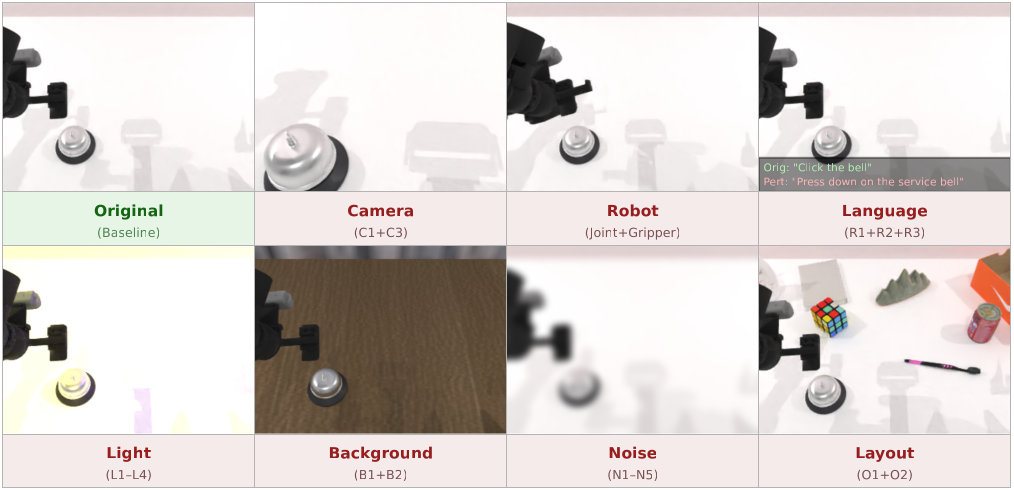
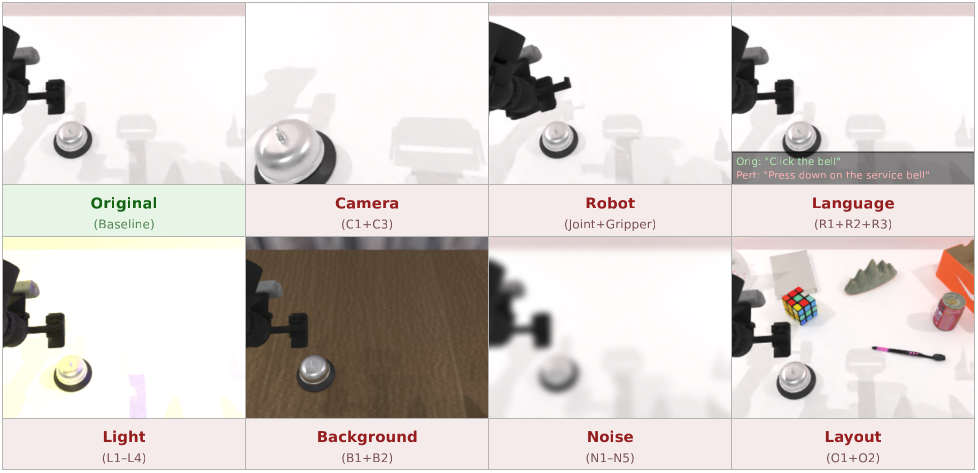
Expand project page: full figure set, real captions, results tables
Replace the single method/results images with the paper's own figure
sequence, each carrying its caption from the LaTeX source. Add an
Approach section and quantitative results tables transcribed from the
papers' result tables.

diff --git a/docs/index.html b/docs/index.html
@@ -48,6 +48,17 @@ h1{font-size:clamp(28px,4.4vw,42px);line-height:1.18;margin:0 0 10px;letter-spac
 .authors .me{font-weight:700}
 .affil{color:var(--muted);font-size:14.5px;margin:6px 0 0}
 .notes{color:var(--muted);font-size:13px;margin:8px 0 0}
+figure.fig{margin:0 0 34px}
+figure.fig:last-child{margin-bottom:0}
+.tbl-wrap{overflow-x:auto;margin:0 0 10px}
+table{border-collapse:collapse;width:100%;font-size:14.5px}
+th,td{padding:9px 14px;text-align:right;border-bottom:1px solid var(--rule);white-space:nowrap}
+th:first-child,td:first-child{text-align:left}
+thead th{font-weight:600;color:var(--muted);font-size:12.5px;letter-spacing:.05em;
+  text-transform:uppercase;border-bottom:1.5px solid var(--fg)}
+tbody tr:last-child td{border-bottom:1.5px solid var(--fg)}
+.tbl-title{font-weight:600;font-size:15px;margin:0 0 12px}
+.tbl-note{color:var(--muted);font-size:13.5px;margin:8px 0 30px}
 .tldr{background:var(--tldr);border-left:3px solid var(--accent);border-radius:0 8px 8px 0;
   padding:18px 22px;margin:0;font-size:17.5px;line-height:1.6}
 ul.pts{margin:0;padding-left:22px}
@@ -97,7 +108,8 @@ a{color:var(--accent)}
     <a class="btn" href="https://github.com/SajjadPSavoji/World-Action-Model-Robustness">Code</a>
     <a class="btn" href="#bibtex">BibTeX</a>
   </div>
-  <figure class="teaser"><img src="static/teaser.png" alt="WAM vs VLA teaser"></figure>
+  <figure class="teaser"><img src="static/teaser.png" alt="WAM vs VLA overview">
+    <figcaption>Examples of perturbations applied to RoboTwin 2.0-Plus tasks.</figcaption></figure>
 </div></header>
 <main class="wrap">
   <section>
@@ -113,19 +125,14 @@ a{color:var(--accent)}
     <ul class="pts"><li>A controlled robustness comparison of world action models (WAMs) against VLAs under systematic perturbations.</li><li>Evaluation across RoboTwin 2.0-Plus and LIBERO-Plus, covering perturbation types that isolate different generalization failures.</li><li>Analysis of the inference-cost gap that limits WAM deployment in real robotic systems.</li><li>Case studies contrasting IDM-based and joint-denoising WAM designs under limited training-data diversity.</li></ul>
   </section>
   <section>
-    <h2>Method</h2>
-    <figure>
-      <img src="static/method.png" alt="Method overview">
-      <figcaption>Overview of the proposed approach.</figcaption>
-    </figure>
+    <h2>Approach</h2>
+    <figure class="fig"><img src="static/approach1.png" alt="Future images predicted by Cosmos-policy. Ground-truth and p"><figcaption>Future images predicted by Cosmos-policy. Ground-truth and predicted images under noise, lighting, and texture perturbations.</figcaption></figure>
   </section>
   <section>
     <h2>Results</h2>
-    <figure>
-      <img src="static/results.png" alt="Results">
-      <figcaption>Qualitative results and comparison against baselines.</figcaption>
-    </figure>
-    <ul class="pts res" style="margin-top:26px"><li>Simpler embodied pre-training is a genuine advantage of WAMs over classic VLAs.</li><li>A single WAM inference step is at least <strong>4.8× slower</strong> than π<sub>0.5</sub>, limiting real-world deployment.</li><li>Fast-WAM matches the IDM-based LingBot-VA on RoboTwin 2.0-Plus, but its robustness <strong>collapses on LIBERO-Plus</strong> when training data lacks diversity.</li><li>Joint-denoising designs appear to depend more on training-data diversity than IDM-style designs that condition action on a predicted future state.</li></ul>
+    <ul class="pts res" style="margin-bottom:34px"><li>Simpler embodied pre-training is a genuine advantage of WAMs over classic VLAs.</li><li>A single WAM inference step is at least <strong>4.8× slower</strong> than π<sub>0.5</sub>, limiting real-world deployment.</li><li>Fast-WAM matches the IDM-based LingBot-VA on RoboTwin 2.0-Plus, but its robustness <strong>collapses on LIBERO-Plus</strong> when training data lacks diversity.</li><li>Joint-denoising designs appear to depend more on training-data diversity than IDM-style designs that condition action on a predicted future state.</li></ul>
+    
+    <figure class="fig"><img src="static/result1.png" alt="Case studies on RoboTwin 2.0-Plus comparing π₀.₅ and LingBot"><figcaption>Case studies on RoboTwin 2.0-Plus comparing π₀.₅ and LingBot-VA, with keyframes shown sequentially.</figcaption></figure>
   </section>
   <section id="bibtex">
     <h2>BibTeX</h2>

diff --git a/README.md b/README.md
@@ -55,7 +55,7 @@ pip install -r requirements.txt
 
 ## Results
 
-<img src="docs/static/results.png" width="100%">
+<img src="docs/static/result1.png" width="100%">
 
 - Simpler embodied pre-training is a genuine advantage of WAMs over classic VLAs.
 - A single WAM inference step is at least **4.8× slower** than π0.5, limiting real-world deployment.
